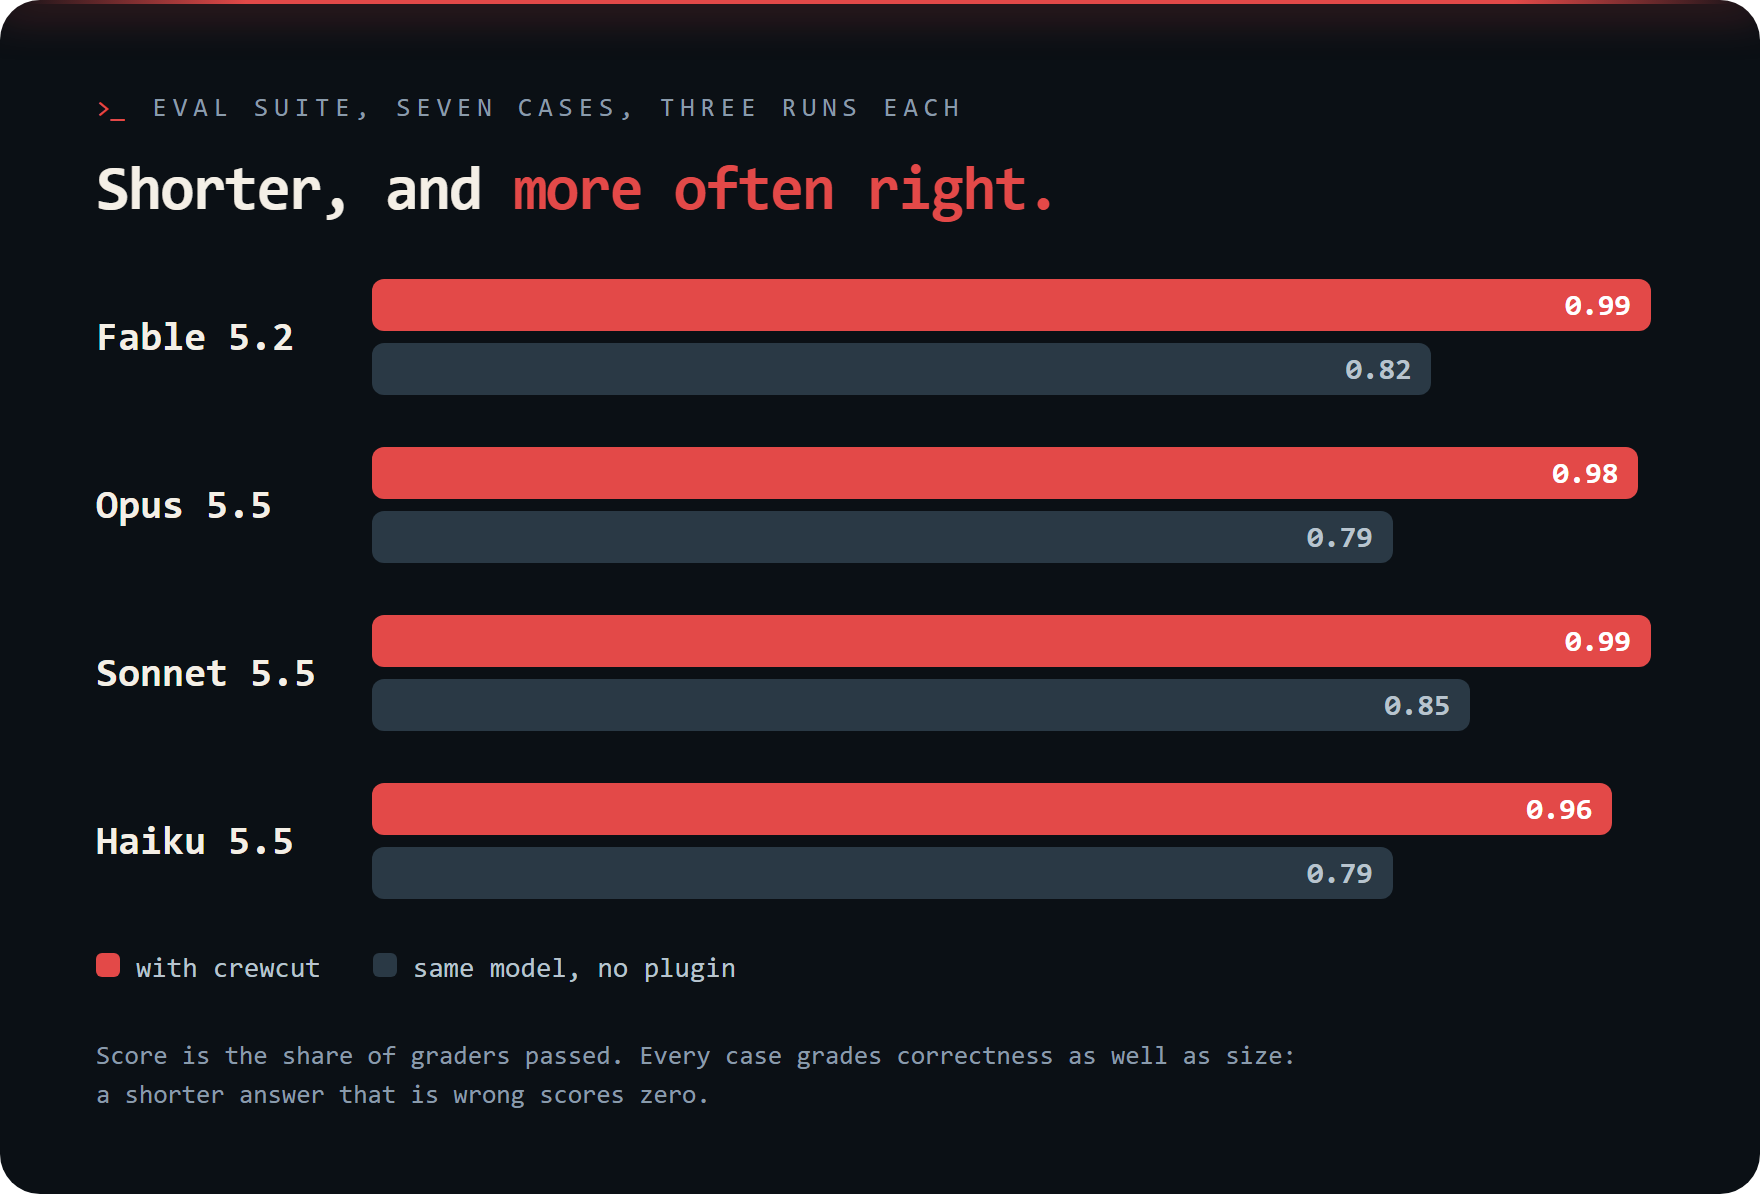
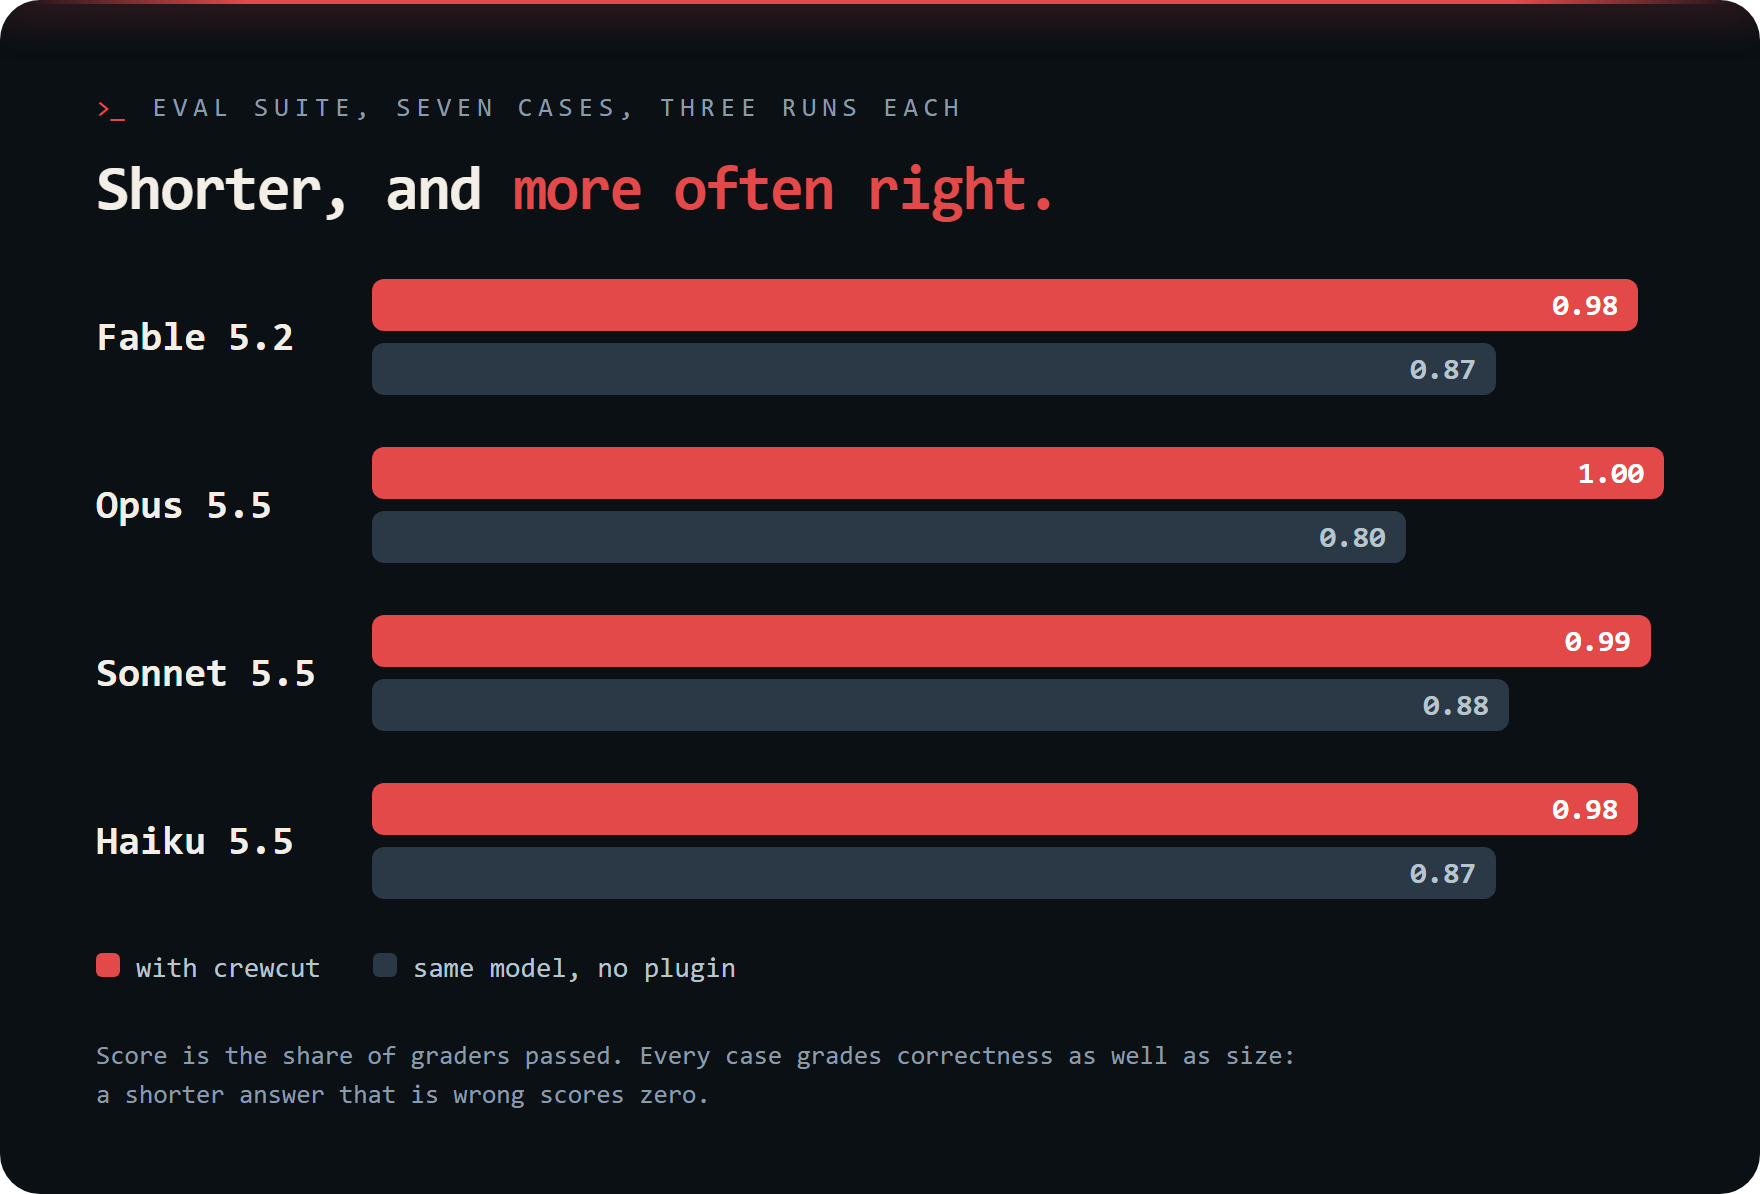
Grade the plain text and comment rules, judge with Opus

diff --git a/assets/readme/src/evals-fr.html b/assets/readme/src/evals-fr.html
@@ -11,10 +11,10 @@
 <div class="card"><div class="pole"></div>
 <div class="eyebrow">Suite d'évals, sept cas, trois runs chacun</div>
 <h1>Plus court, et <em>plus souvent juste.</em></h1>
-<div class="row"><div class="m">Fable 5.2</div><div><div class="bar w" style="width:99%">0,99</div><div class="bar o" style="width:82%">0,82</div></div></div>
-<div class="row"><div class="m">Opus 5.5</div><div><div class="bar w" style="width:98%">0,98</div><div class="bar o" style="width:79%">0,79</div></div></div>
-<div class="row"><div class="m">Sonnet 5.5</div><div><div class="bar w" style="width:99%">0,99</div><div class="bar o" style="width:85%">0,85</div></div></div>
-<div class="row"><div class="m">Haiku 5.5</div><div><div class="bar w" style="width:96%">0,96</div><div class="bar o" style="width:79%">0,79</div></div></div>
+<div class="row"><div class="m">Fable 5.2</div><div><div class="bar w" style="width:98%">0,98</div><div class="bar o" style="width:87%">0,87</div></div></div>
+<div class="row"><div class="m">Opus 5.5</div><div><div class="bar w" style="width:100%">1,00</div><div class="bar o" style="width:80%">0,80</div></div></div>
+<div class="row"><div class="m">Sonnet 5.5</div><div><div class="bar w" style="width:99%">0,99</div><div class="bar o" style="width:88%">0,88</div></div></div>
+<div class="row"><div class="m">Haiku 5.5</div><div><div class="bar w" style="width:98%">0,98</div><div class="bar o" style="width:87%">0,87</div></div></div>
 <div class="legend"><span><i style="background:#E34948"></i>avec crewcut</span><span><i style="background:#2A3945"></i>même modèle, sans plugin</span></div>
 <div class="foot">Le score est la part de graders réussis. Chaque cas note la justesse autant que la taille :<br>une réponse plus courte mais fausse vaut zéro.</div>
 </div>

diff --git a/assets/readme/src/evals.html b/assets/readme/src/evals.html
@@ -11,10 +11,10 @@
 <div class="card"><div class="pole"></div>
 <div class="eyebrow">Eval suite, seven cases, three runs each</div>
 <h1>Shorter, and <em>more often right.</em></h1>
-<div class="row"><div class="m">Fable 5.2</div><div><div class="bar w" style="width:99%">0.99</div><div class="bar o" style="width:82%">0.82</div></div></div>
-<div class="row"><div class="m">Opus 5.5</div><div><div class="bar w" style="width:98%">0.98</div><div class="bar o" style="width:79%">0.79</div></div></div>
-<div class="row"><div class="m">Sonnet 5.5</div><div><div class="bar w" style="width:99%">0.99</div><div class="bar o" style="width:85%">0.85</div></div></div>
-<div class="row"><div class="m">Haiku 5.5</div><div><div class="bar w" style="width:96%">0.96</div><div class="bar o" style="width:79%">0.79</div></div></div>
+<div class="row"><div class="m">Fable 5.2</div><div><div class="bar w" style="width:98%">0.98</div><div class="bar o" style="width:87%">0.87</div></div></div>
+<div class="row"><div class="m">Opus 5.5</div><div><div class="bar w" style="width:100%">1.00</div><div class="bar o" style="width:80%">0.80</div></div></div>
+<div class="row"><div class="m">Sonnet 5.5</div><div><div class="bar w" style="width:99%">0.99</div><div class="bar o" style="width:88%">0.88</div></div></div>
+<div class="row"><div class="m">Haiku 5.5</div><div><div class="bar w" style="width:98%">0.98</div><div class="bar o" style="width:87%">0.87</div></div></div>
 <div class="legend"><span><i style="background:#E34948"></i>with crewcut</span><span><i style="background:#2A3945"></i>same model, no plugin</span></div>
 <div class="foot">Score is the share of graders passed. Every case grades correctness as well as size:<br>a shorter answer that is wrong scores zero.</div>
 </div>

diff --git a/README.fr.md b/README.fr.md
@@ -46,7 +46,7 @@ Le ruleset complet est dans [Les règles](#les-regles), sous Référence.
 
 ## Mesuré
 
-<p align="center"><img src="assets/readme/evals-fr.png" width="880" alt="Suite d'évals, sept cas, trois runs chacun. Plus court, et plus souvent juste. Fable 5.2 : 0,99 avec crewcut, 0,82 pour le même modèle sans plugin. Opus 5.5 : 0,98 avec, 0,79 sans. Sonnet 5.5 : 0,99 avec, 0,85 sans. Haiku 5.5 : 0,96 avec, 0,79 sans. Le score est la part de graders réussis. Chaque cas note la justesse autant que la taille : une réponse plus courte mais fausse vaut zéro."></p>
+<p align="center"><img src="assets/readme/evals-fr.png" width="880" alt="Suite d'évals, sept cas, trois runs chacun. Plus court, et plus souvent juste. Fable 5.2 : 0,98 avec crewcut, 0,87 pour le même modèle sans plugin. Opus 5.5 : 1,00 avec, 0,80 sans. Sonnet 5.5 : 0,99 avec, 0,88 sans. Haiku 5.5 : 0,98 avec, 0,87 sans. Le score est la part de graders réussis. Chaque cas note la justesse autant que la taille : une réponse plus courte mais fausse vaut zéro."></p>
 
 <p align="center"><img src="assets/readme/pt5-fr.png" width="880" alt="Le benchmark de ponytail 5, crewcut 0.14.0 face à sans plugin, Opus 5.5, 39 tâches, 5 runs. Lignes de code moins 58 pour cent, intervalle à 95 pour cent de moins 68 à moins 47, mieux sur 32 tâches et pire sur 1. Information de code moins 52 pour cent. Tokens de sortie moins 56 pour cent. Coût moins 34 pour cent, intervalle de moins 44 à moins 24. Temps moins 53 pour cent. Tours moins 19 pour cent. Vérifications cachées : 85 sur 90 réussies, 86 sans le plugin. Six tâches de sécurité : 30 sur 30 dans les deux bras. Tâche de confidentialité : 0 sur 5, puis 8 sur 10 après la règle qui nomme ce qu'un changement peut exposer. Ponytail 5 a publié pour lui-même : code moins 53 pour cent, tokens de sortie moins 45, coût moins 26, temps moins 41. Deux runs à un mois d'écart, les intervalles se recouvrent."></p>
 
@@ -66,14 +66,15 @@ par tâche, limites et reproduction :
 <details>
 <summary>Les chiffres en texte</summary>
 
-Suite d'évals, sept cas, trois runs chacun, Sonnet comme juge :
+Suite d'évals, sept cas, trois runs chacun, Opus 5.5 comme juge. Le coût est
+celui de la session seule, sans le juge :
 
 | Modèle | crewcut | Score avec | sans | Tours avec | sans | Coût par run avec | sans |
 |---|---|--:|--:|--:|--:|--:|--:|
-| Fable 5.2 | 0.14.0 | 0,99 | 0,82 | 4,4 | 6,1 | 0,211 USD | 0,214 USD |
-| Opus 5.5 | 0.15.0 | 0,98 | 0,79 | 5,3 | 5,8 | 0,109 USD | 0,106 USD |
-| Sonnet 5.5 | 0.15.0 | 0,99 | 0,85 | 4,5 | 6,2 | 0,060 USD | 0,063 USD |
-| Haiku 5.5 | 0.14.0 | 0,96 | 0,79 | 5,4 | 7,0 | 0,012 USD | 0,021 USD |
+| Fable 5.2 | 0.15.3 | 0,98 | 0,87 | 4,4 | 6,1 | 0,202 USD | 0,193 USD |
+| Opus 5.5 | 0.15.3 | 1,00 | 0,80 | 5,3 | 6,0 | 0,092 USD | 0,089 USD |
+| Sonnet 5.5 | 0.15.3 | 0,99 | 0,88 | 4,6 | 6,0 | 0,045 USD | 0,042 USD |
+| Haiku 5.5 | 0.15.3 | 0,98 | 0,87 | 5,6 | 6,9 | 0,003 USD | 0,003 USD |
 
 Le benchmark de ponytail 5, Opus 5.5, 39 tâches, 5 runs, crewcut 0.14.0
 face à sans plugin :

diff --git a/evals/RESULTS.md b/evals/RESULTS.md
@@ -119,6 +119,56 @@ Opus 0.98 against 0.79, 5.3 turns against 5.8, 0.109 against 0.106 USD.
 Nothing was lost on the seven cases; the rule itself is measured on
 ponytail 5's benchmark, in `benchmarks/agentic/RESULTS.md`.
 
+## The owner's rules as graders, Opus as judge (crewcut 0.15.3, 2026-11-13)
+
+Twenty-four graders added to the seven cases, for the rules that had none:
+no long dash, curly quote, arrow, symbol or emoji in the last message
+(`plain-text-answer`, every case) or in the edited file
+(`plain-text-in-code`); the word crewcut nowhere in the edited file
+(`no-crewcut-in-code`); no block comment and no two comment lines in a row
+(`comments-one-line`, three cases); every comment gives a reason
+(`comments-say-why`, judged, two cases). The first four are regular
+expressions: free, and the same on every run.
+
+The judge is now Opus 5.5 (`--judge-model opus`), on every judged grader,
+old and new. Scores before this section were judged by Sonnet and had fewer
+graders: they do not compare with these.
+
+| Model | Score with | without | Turns with | without | Session cost with | without |
+|---|--:|--:|--:|--:|--:|--:|
+| Fable 5.2 | 0.98 | 0.87 | 4.4 | 6.1 | 0.202 USD | 0.193 USD |
+| Opus 5.5 | 1.00 | 0.80 | 5.3 | 6.0 | 0.092 USD | 0.089 USD |
+| Sonnet 5.5 | 0.99 | 0.88 | 4.6 | 6.0 | 0.045 USD | 0.042 USD |
+| Haiku 5.5 | 0.98 | 0.87 | 5.6 | 6.9 | 0.003 USD | 0.003 USD |
+
+Seven cases, three runs, Claude Code 2.1.323, no out-of-usage run, 23.33 USD
+with the judge. One Opus run without the plugin failed to start on
+`explain-bug` (a process spawn error) and has no grader.
+
+**The cost column changed meaning.** The harness reports one cost per run
+that includes the judge. Every "cost per run" published before this section
+carried it: about 0.01 to 0.02 USD with Sonnet as judge, more without the
+plugin because longer answers cost more to judge. On Haiku that was most of
+the figure: 0.012 against 0.021 USD was 0.003 against 0.003 USD of session.
+The column above is the session alone. On these small cases the plugin
+costs the same or a little more per session (its ruleset is read on every
+turn) and saves turns.
+
+**What the new graders show.** With the plugin, every model passes all of
+them, but for one Haiku answer with a banned character. Without it:
+
+| Grader, runs passed without the plugin | Fable | Opus | Sonnet | Haiku |
+|---|--:|--:|--:|--:|
+| plain-text-answer | 18 / 21 | 18 / 20 | 21 / 21 | 18 / 21 |
+| comments-say-why | 6 / 6 | 3 / 6 | 6 / 6 | 6 / 6 |
+
+The three other graders pass in every run of both arms: no model writes a
+banned character in code, a block comment or the plugin's name on these
+cases. They are guards for the day a ruleset or a model changes that. No
+grader covers "current practice" (it needs a case built on an API that
+changed between two versions) nor the commit rules (the sessions have no
+shell).
+
 What it says:
 
 - The savings show up with the size of the project. `csv-export` is twenty

diff --git a/README.md b/README.md
@@ -46,7 +46,7 @@ The full ruleset is in [The rules](#the-rules), under Reference.
 
 ## Measured
 
-<p align="center"><img src="assets/readme/evals.png" width="880" alt="Eval suite, seven cases, three runs each. Shorter, and more often right. Fable 5.2: 0.99 with crewcut, 0.82 for the same model with no plugin. Opus 5.5: 0.98 with, 0.79 without. Sonnet 5.5: 0.99 with, 0.85 without. Haiku 5.5: 0.96 with, 0.79 without. Score is the share of graders passed. Every case grades correctness as well as size: a shorter answer that is wrong scores zero."></p>
+<p align="center"><img src="assets/readme/evals.png" width="880" alt="Eval suite, seven cases, three runs each. Shorter, and more often right. Fable 5.2: 0.98 with crewcut, 0.87 for the same model with no plugin. Opus 5.5: 1.00 with, 0.80 without. Sonnet 5.5: 0.99 with, 0.88 without. Haiku 5.5: 0.98 with, 0.87 without. Score is the share of graders passed. Every case grades correctness as well as size: a shorter answer that is wrong scores zero."></p>
 
 <p align="center"><img src="assets/readme/pt5.png" width="880" alt="Ponytail 5's benchmark, crewcut 0.14.0 against no plugin, Opus 5.5, 39 tasks, 5 runs. Lines of code minus 58 percent, 95 percent interval minus 68 to minus 47, better on 32 tasks and worse on 1. Code information minus 52 percent. Output tokens minus 56 percent. Cost minus 34 percent, interval minus 44 to minus 24. Time minus 53 percent. Turns minus 19 percent. Hidden checks: 85 of 90 passed, 86 without the plugin. Six security tasks: 30 of 30 in both arms. Privacy task: 0 of 5, then 8 of 10 after the rule that names what a change could expose. Ponytail 5 published for itself: code minus 53 percent, output tokens minus 45, cost minus 26, time minus 41. Two runs a month apart, intervals overlap."></p>
 
@@ -66,14 +66,15 @@ limits and how to reproduce:
 <details>
 <summary>The figures as text</summary>
 
-Eval suite, seven cases, three runs each, Sonnet as judge:
+Eval suite, seven cases, three runs each, Opus 5.5 as judge. The cost is the
+session alone, without the judge:
 
 | Model | crewcut | Score with | without | Turns with | without | Cost per run with | without |
 |---|---|--:|--:|--:|--:|--:|--:|
-| Fable 5.2 | 0.14.0 | 0.99 | 0.82 | 4.4 | 6.1 | 0.211 USD | 0.214 USD |
-| Opus 5.5 | 0.15.0 | 0.98 | 0.79 | 5.3 | 5.8 | 0.109 USD | 0.106 USD |
-| Sonnet 5.5 | 0.15.0 | 0.99 | 0.85 | 4.5 | 6.2 | 0.060 USD | 0.063 USD |
-| Haiku 5.5 | 0.14.0 | 0.96 | 0.79 | 5.4 | 7.0 | 0.012 USD | 0.021 USD |
+| Fable 5.2 | 0.15.3 | 0.98 | 0.87 | 4.4 | 6.1 | 0.202 USD | 0.193 USD |
+| Opus 5.5 | 0.15.3 | 1.00 | 0.80 | 5.3 | 6.0 | 0.092 USD | 0.089 USD |
+| Sonnet 5.5 | 0.15.3 | 0.99 | 0.88 | 4.6 | 6.0 | 0.045 USD | 0.042 USD |
+| Haiku 5.5 | 0.15.3 | 0.98 | 0.87 | 5.6 | 6.9 | 0.003 USD | 0.003 USD |
 
 Ponytail 5's benchmark, Opus 5.5, 39 tasks, 5 runs, crewcut 0.14.0 against
 no plugin:

diff --git a/skills/crewcut-gain/SKILL.md b/skills/crewcut-gain/SKILL.md
@@ -23,11 +23,11 @@ crewcut gain                   measured on public repos and eval cases, not on t
 
   eval cases (seven, three runs each, same model with and without)
 
-                 score with / without   turns with / without   cost per run with / without
-  Fable 5.2      0.99 / 0.82            4.4 / 6.1     -28 %    0.211 / 0.214 USD     -1 %
-  Opus 5.5       0.98 / 0.79            5.3 / 5.8      -9 %    0.109 / 0.106 USD     +3 %
-  Sonnet 5.5     0.99 / 0.85            4.5 / 6.2     -27 %    0.060 / 0.063 USD     -5 %
-  Haiku 5.5      0.96 / 0.79            5.4 / 7.0     -23 %    0.012 / 0.021 USD    -43 %
+                 score with / without   turns with / without   session cost with / without
+  Fable 5.2      0.98 / 0.87            4.4 / 6.1     -28 %    0.202 / 0.193 USD     +5 %
+  Opus 5.5       1.00 / 0.80            5.3 / 6.0     -12 %    0.092 / 0.089 USD     +3 %
+  Sonnet 5.5     0.99 / 0.88            4.6 / 6.0     -23 %    0.045 / 0.042 USD     +7 %
+  Haiku 5.5      0.98 / 0.87            5.6 / 6.9     -19 %    0.003 / 0.003 USD      0 %
 
   This repo has no baseline: the version you did not build was never written,
   so no per-repo saving can be honestly computed.

diff --git a/CHANGELOG.md b/CHANGELOG.md
@@ -5,6 +5,24 @@ follows Keep a Changelog and the project follows Semantic Versioning.
 
 ## [Unreleased]
 
+### Added
+
+- Eval graders for the rules that had none: plain text in the answer and in
+  the edited file, no "crewcut" in the code, comments on one line, comments
+  that give a reason. Twenty-four graders over the seven cases, twenty of
+  them regular expressions.
+
+### Changed
+
+- Opus 5.5 is the judge of the eval suite. Measured on four models, seven
+  cases, three runs: Fable 5.2 0.98 against 0.87 without the plugin, Opus
+  5.5 1.00 against 0.80, Sonnet 5.5 0.99 against 0.88, Haiku 5.5 0.98
+  against 0.87. Without the plugin Opus writes comments that restate the
+  code in 3 runs out of 6, and three models put a banned character in an
+  answer.
+- The eval tables give the cost of the session alone. The figure published
+  until now included the judge, which was most of it on Haiku.
+
 ## [0.15.3] - 2026-11-13
 
 ### Changed
